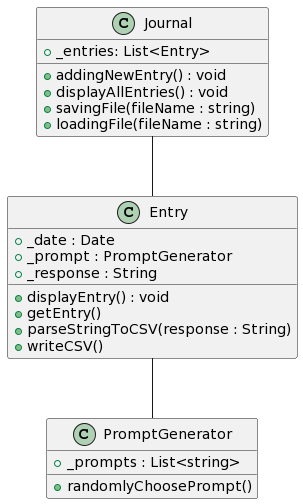
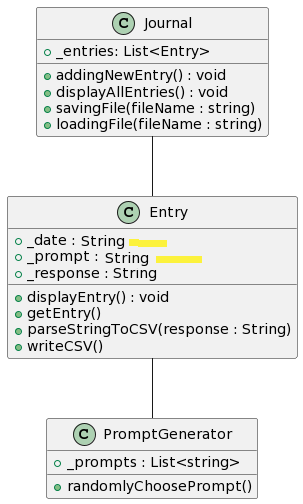
creating methods to save and load files

Changed region(s): [[0.2673, 0.4464, 0.7723, 0.5357]]

diff --git a/prove/Develop02/Journal.cs b/prove/Develop02/Journal.cs
@@ -1,4 +1,5 @@
 using System;
+using System.IO; 
 
 class Journal
 {
@@ -19,11 +20,34 @@ class Journal
 
     public void savingFile( String fileName )
     {
-        Console.WriteLine("savingFile without code");
+        Console.WriteLine("saving to file...");
+        using(StreamWriter outputFile = new StreamWriter(fileName))
+        {
+            foreach (var entry in entries)
+            {
+                outputFile.WriteLine(entry.getEntryCSV());
+            }
+        }
+
     }
 
     public void LoadFile( String fileName )
     {
-        Console.WriteLine("loadFile without code");
+        String[] lines = File.ReadAllLines(fileName);
+        foreach (var line in lines)
+        {
+            string[] parts = line.Split("|");
+
+            string date = parts[0];
+            string prompt = parts[1];
+            string response = parts[2];
+
+            Entry newEntry = new Entry(date, prompt, response);
+            
+            entries.Add(newEntry);
+        }
+
     }
+
+    
 }

diff --git a/prove/Develop02/Entry.cs b/prove/Develop02/Entry.cs
@@ -17,6 +17,13 @@ class Entry
         this._prompt = pg.randomlyChoosePrompt();
     }
 
+    public Entry(String date, String prompt, String response)
+    {
+        this._date = date;
+        this._prompt = prompt;
+        this._response = response;
+    }
+
     public void displayEntry()
     {
         Console.WriteLine($"Date: {_date} Prompt: {_prompt} \n{_response}");
@@ -25,6 +32,11 @@ class Entry
     public String getEntry()
     {
         return $"Date: {_date} Prompt: {_prompt} \n{_response}";
+    }
+
+    public String getEntryCSV()
+    {
+        return $"{_date}|{_prompt}|{_response}";
     }
 
     

diff --git a/prove/Develop02/Program.cs b/prove/Develop02/Program.cs
@@ -34,5 +34,10 @@ class Program
 
         journal1.displayAllEntries();
 
+        Console.WriteLine("Please, enter the filename to saving the infomation: ");
+        String userFileName = Console.ReadLine();
+
+        journal1.savingFile(userFileName);
+
     }
 }
